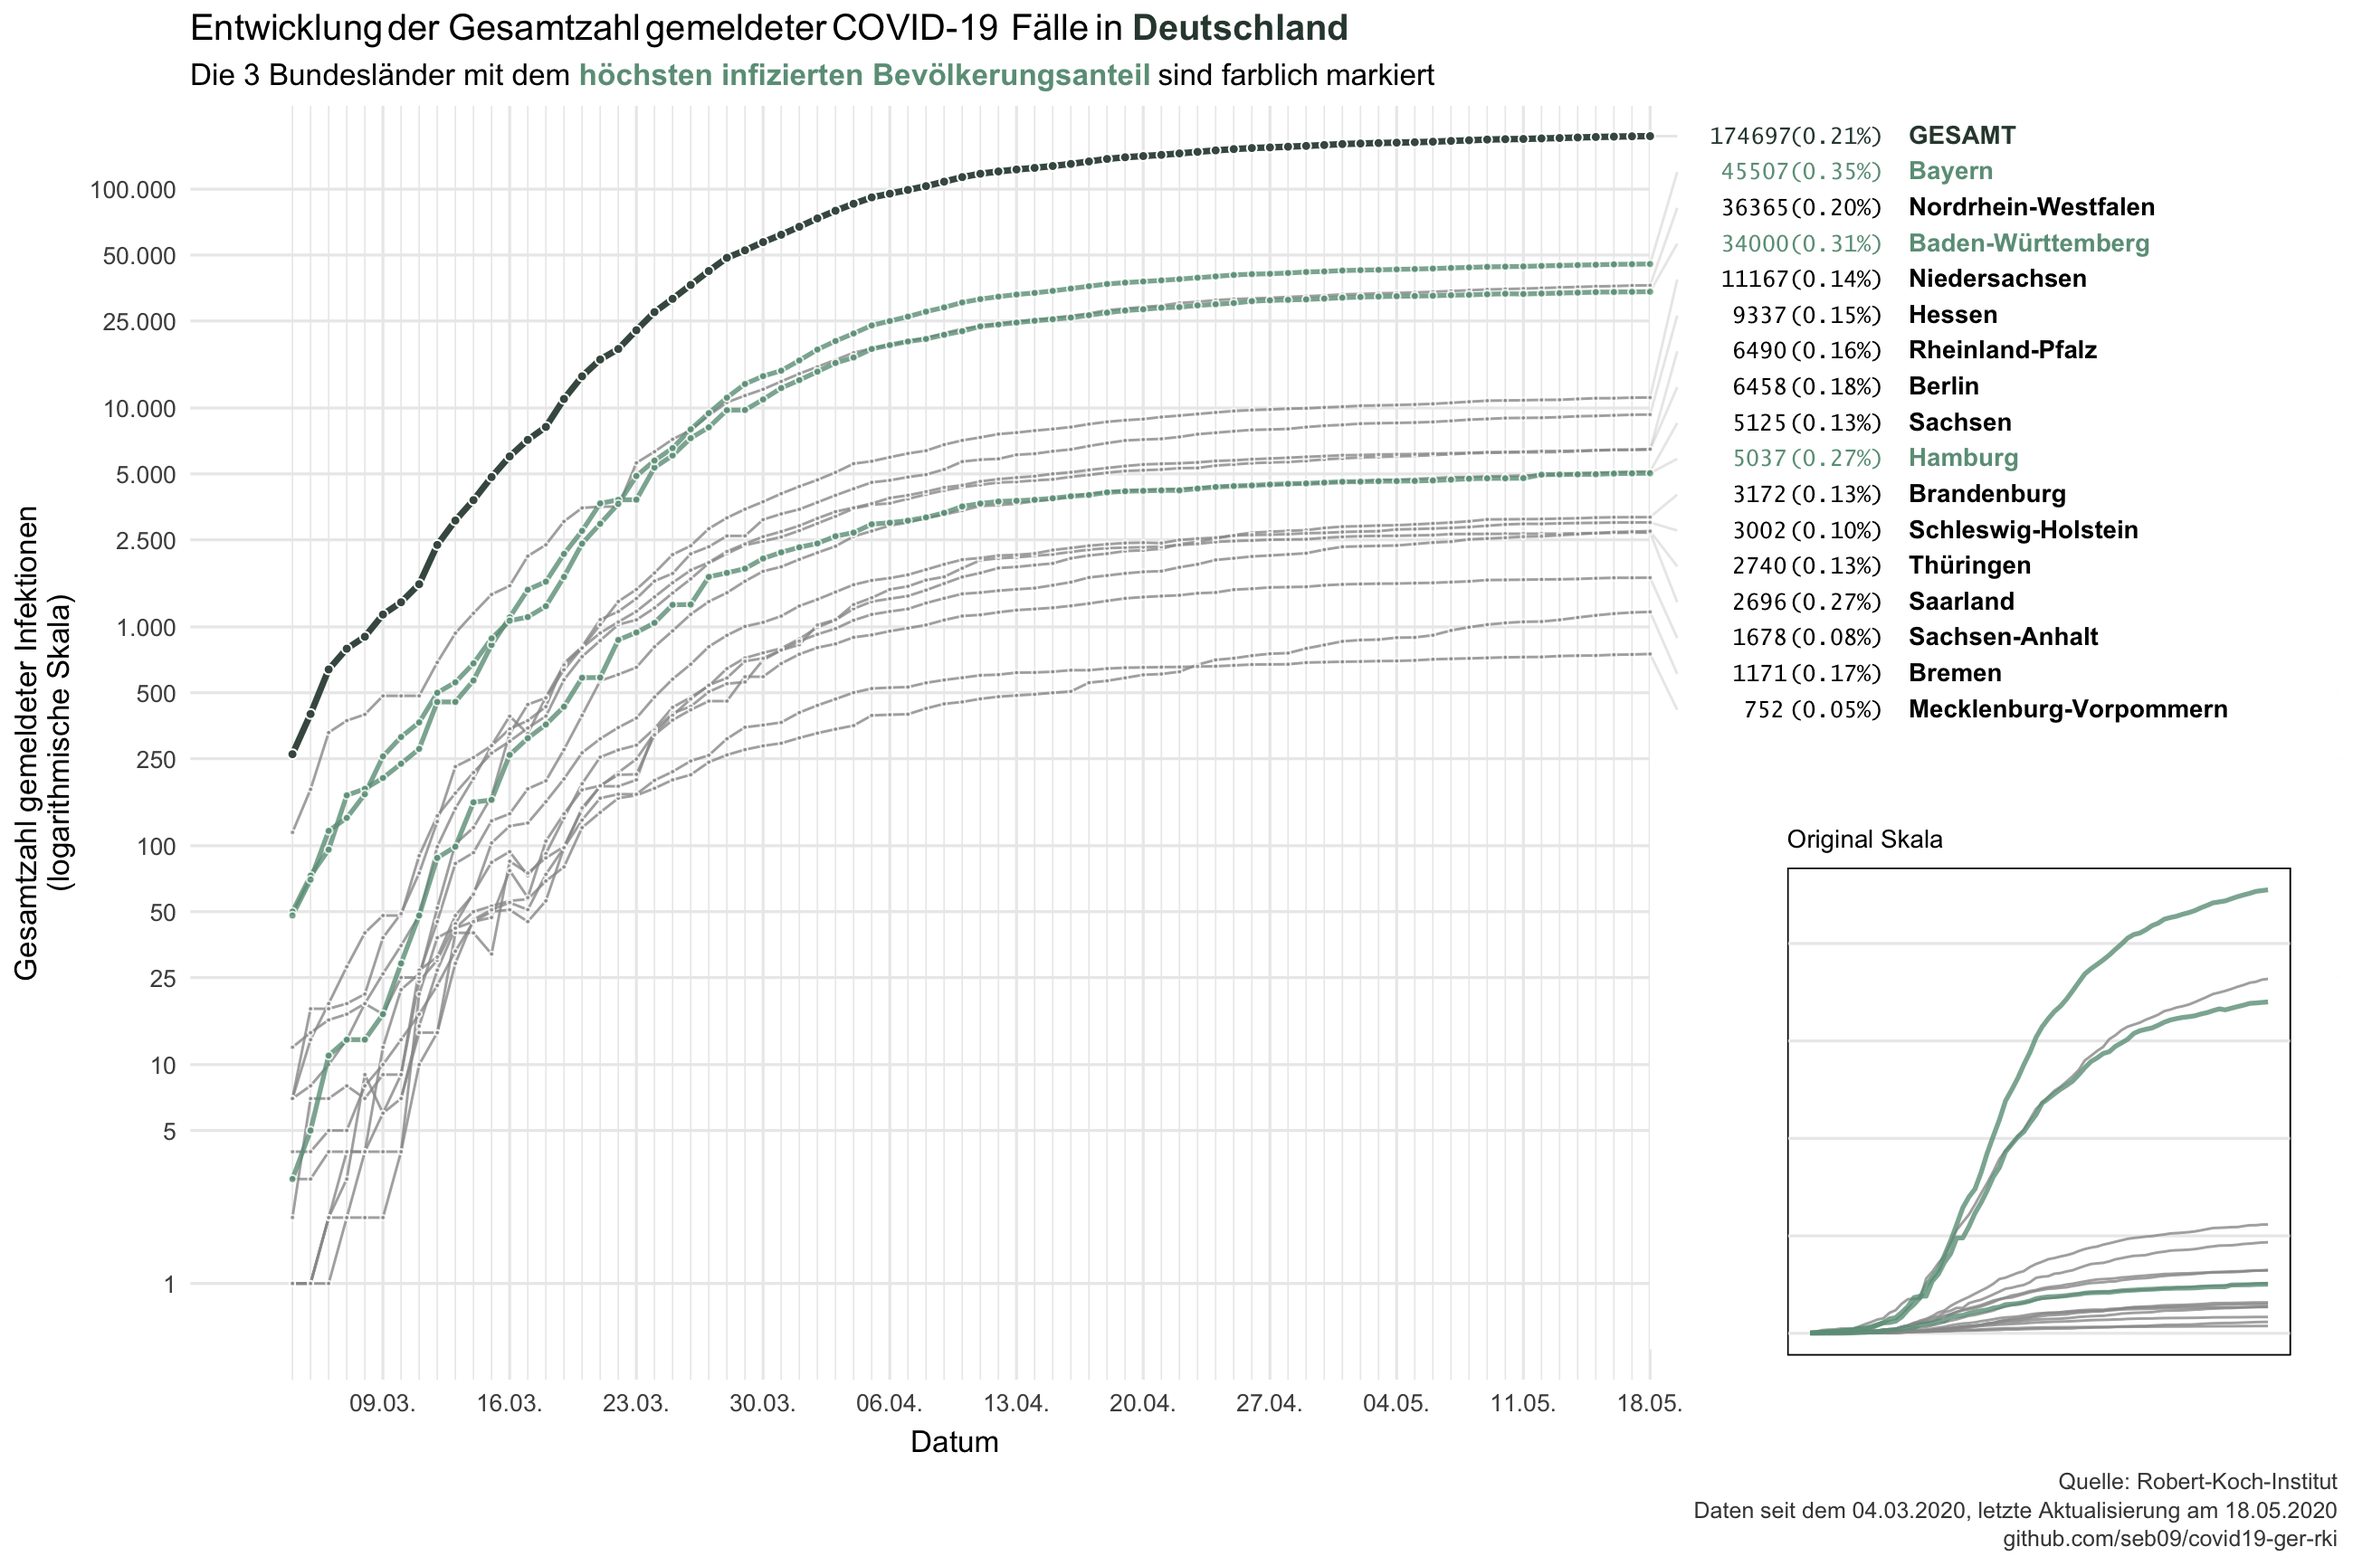
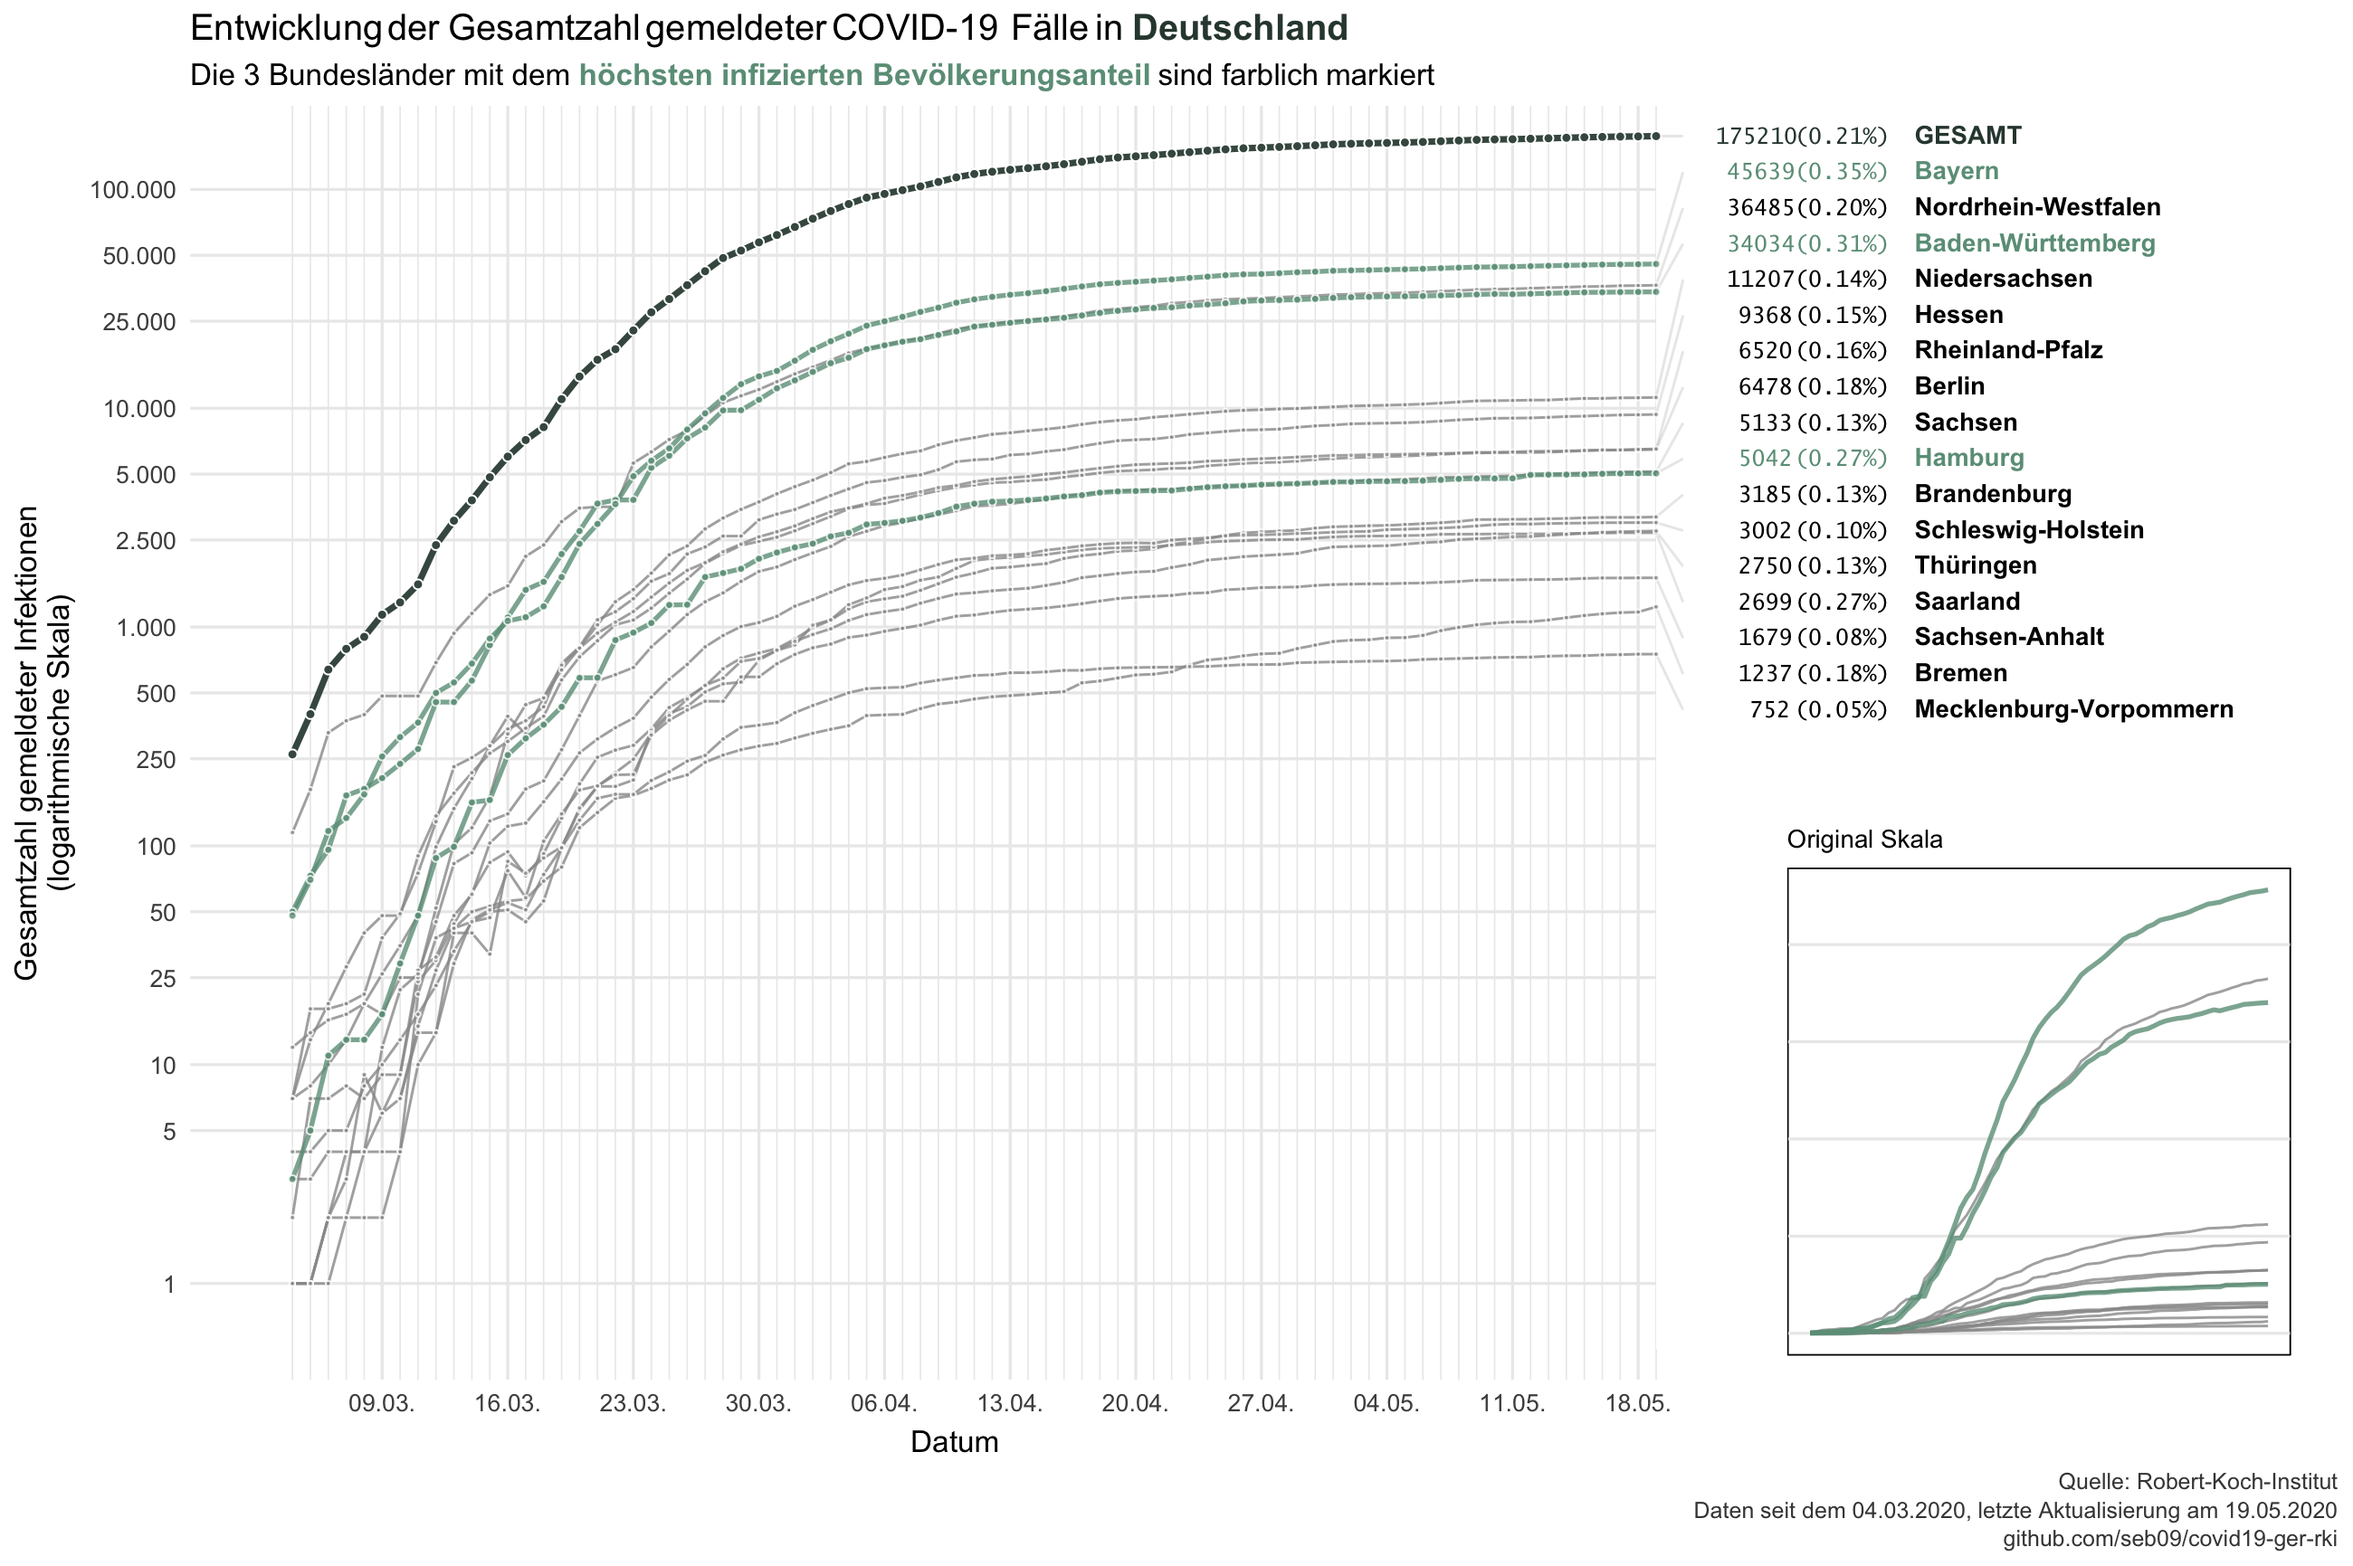
daily update 2020-05-19

diff --git a/README.md b/README.md
@@ -1,6 +1,6 @@
 Data from the Robert-Koch-Institut on COVID-19 in Germany
 ================
-Last update: 2020-05-18
+Last update: 2020-05-19
 
 This repository contains data on reported COVID-19 cases in Germany and
 its federal states that is published daily by the Robert-Koch-Institut
@@ -14,26 +14,26 @@ corona_rki %>%
   print(n = 16)
 ```
 
-    ## # A tibble: 1,210 x 6
+    ## # A tibble: 1,226 x 6
     ##    Datum      Bundesland      Fallzahl Todeszahl Fallzahl_neu Todeszahl_neu
     ##    <date>     <chr>              <dbl>     <dbl>        <dbl>         <dbl>
-    ##  1 2020-05-18 Baden-Württemb…    34000      1652           50             4
-    ##  2 2020-05-18 Bayern             45507      2287           80             4
-    ##  3 2020-05-18 Berlin              6458       180           11            -2
-    ##  4 2020-05-18 Brandenburg         3172       149            1             0
-    ##  5 2020-05-18 Bremen              1171        38            7             1
-    ##  6 2020-05-18 Hamburg             5037       232            8             0
-    ##  7 2020-05-18 Hessen              9337       439           20             4
-    ##  8 2020-05-18 Mecklenburg-Vo…      752        20            4             0
-    ##  9 2020-05-18 Niedersachsen      11167       545           12             1
-    ## 10 2020-05-18 Nordrhein-West…    36365      1512           79             7
-    ## 11 2020-05-18 Rheinland-Pfalz     6490       217           41             1
-    ## 12 2020-05-18 Saarland            2696       149            0             0
-    ## 13 2020-05-18 Sachsen             5125       196           10             0
-    ## 14 2020-05-18 Sachsen-Anhalt      1678        54            2             0
-    ## 15 2020-05-18 Schleswig-Hols…     3002       126            2             0
-    ## 16 2020-05-18 Thüringen           2740       139           15             1
-    ## # … with 1,194 more rows
+    ##  1 2020-05-19 Baden-Württemb…    34034      1653           34             1
+    ##  2 2020-05-19 Bayern             45639      2314          132            27
+    ##  3 2020-05-19 Berlin              6478       182           20             2
+    ##  4 2020-05-19 Brandenburg         3185       150           13             1
+    ##  5 2020-05-19 Bremen              1237        38           66             0
+    ##  6 2020-05-19 Hamburg             5042       232            5             0
+    ##  7 2020-05-19 Hessen              9368       442           31             3
+    ##  8 2020-05-19 Mecklenburg-Vo…      752        20            0             0
+    ##  9 2020-05-19 Niedersachsen      11207       548           40             3
+    ## 10 2020-05-19 Nordrhein-West…    36485      1525          120            13
+    ## 11 2020-05-19 Rheinland-Pfalz     6520       222           30             5
+    ## 12 2020-05-19 Saarland            2699       154            3             5
+    ## 13 2020-05-19 Sachsen             5133       198            8             2
+    ## 14 2020-05-19 Sachsen-Anhalt      1679        54            1             0
+    ## 15 2020-05-19 Schleswig-Hols…     3002       128            0             2
+    ## 16 2020-05-19 Thüringen           2750       147           10             8
+    ## # … with 1,210 more rows
 
 Data is downloaded each day at 11am from the [website of the
 RKI](https://www.rki.de/DE/Content/InfAZ/N/Neuartiges_Coronavirus/Fallzahlen.html)
